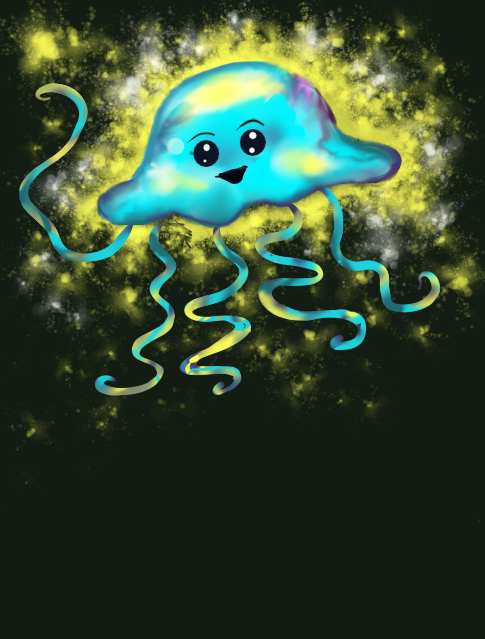
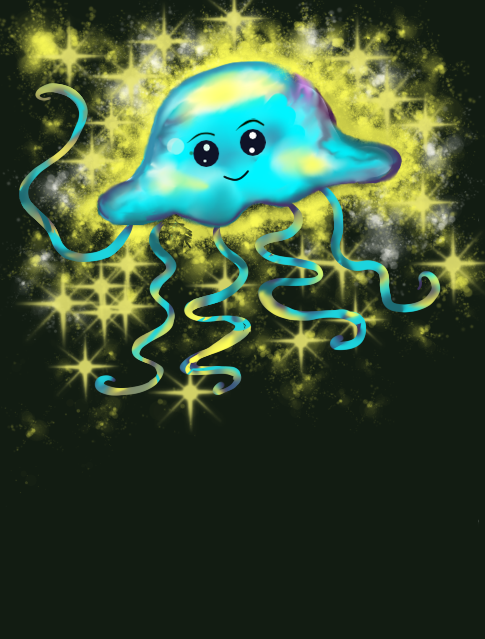
lite smått

diff --git a/src/views/path2/Page6A.jsx b/src/views/path2/Page6A.jsx
@@ -1,11 +1,15 @@
-import React from 'react'
+import React from 'react';
+import {useState} from 'react';
 import {Link} from 'react-router-dom';
 import {motion} from 'framer-motion';
 import '../../App.css';
 import img1 from '../../assets/simtävling2.png';
+import img2 from '../../assets/simtävling3.png';
 
 const Page6 = () => {
-   
+  const [change, setChange] = useState(true);
+  const toggle=() => {setChange(!change);}
+
   return (
     <motion.div intial={{scaleX: 1}} 
     animate={{scaleX: 1}} 
@@ -46,7 +50,9 @@ const Page6 = () => {
             </div>
             <div className='column2'>
               <div className='rightSide'>
-                <img className='pageImg' src={img1} alt=""/>
+                <button className='imgButton' onClick={toggle}>
+                  {change ? <img className='buttonImg' src={img1} alt=""/> :<img className='pageImg' src={img2} alt=""/> }
+                </button>
               </div>
             </div>
           </div>

diff --git a/src/views/path2/Page5A.jsx b/src/views/path2/Page5A.jsx
@@ -21,7 +21,6 @@ const Page5A = () => {
                   <p>Sjöhästen Alia blev var riktigt arg på maneterna och utbrast. </p>
                   <p>-Det är inte schyst, ni vet att Anoh inte kan simma för fort då kan han bli dålig i hjärtat. Vi borde leka en lek som alla kan vara med på.</p>
                   <p> -Kan vi inte göra en dans -och-sångföreställning istället? </p>
-                  <br />
                   <p>-Okej, men då vill jag spela trummor, sa Kantor bläckfisk.</p>
                   <p>-För jag är bra på att räkna och hålla takten.</p>
                   <br />

diff --git a/src/views/path3/PageC4a.jsx b/src/views/path3/PageC4a.jsx
@@ -2,7 +2,7 @@ import React from 'react'
 import {Link} from 'react-router-dom';
 import {motion} from 'framer-motion';
 import '../../App.css';
-import img1 from '../../assets/stenbumlingar.png';
+import img1 from '../../assets/hittaFrisbee.png';
 
 const PageC4a = () => {
    

diff --git a/src/views/path3/PageC7.jsx b/src/views/path3/PageC7.jsx
@@ -2,7 +2,7 @@ import React from 'react'
 import {Link} from 'react-router-dom';
 import {motion} from 'framer-motion';
 import '../../App.css';
-import img1 from '../../assets/shiningAnoh.png';
+import img1 from '../../assets/shiningAnoh1.png';
 
 const PageC7 = () => {
    

diff --git a/src/views/Page10.jsx b/src/views/Page10.jsx
@@ -2,7 +2,7 @@ import React from 'react'
 import {Link} from 'react-router-dom';
 import {motion} from 'framer-motion';
 import '../App.css';
-import img1 from '../assets/shiningAnoh.png';
+import img1 from '../assets/shiningAnoh1.png';
 
 const Page10 = () => {
    

diff --git a/src/views/Page3.jsx b/src/views/Page3.jsx
@@ -1,5 +1,5 @@
 import React from 'react';
-import {useState} from 'react'
+import {useState} from 'react';
 import {Link} from 'react-router-dom';
 import {motion} from 'framer-motion';
 import '../App.css';

diff --git a/src/views/path3/PageC6a.jsx b/src/views/path3/PageC6a.jsx
@@ -1,0 +1,9 @@
+import React from 'react'
+
+const PageC6a = () => {
+  return (
+    <div>PageC6a</div>
+  )
+}
+
+export default PageC6a
